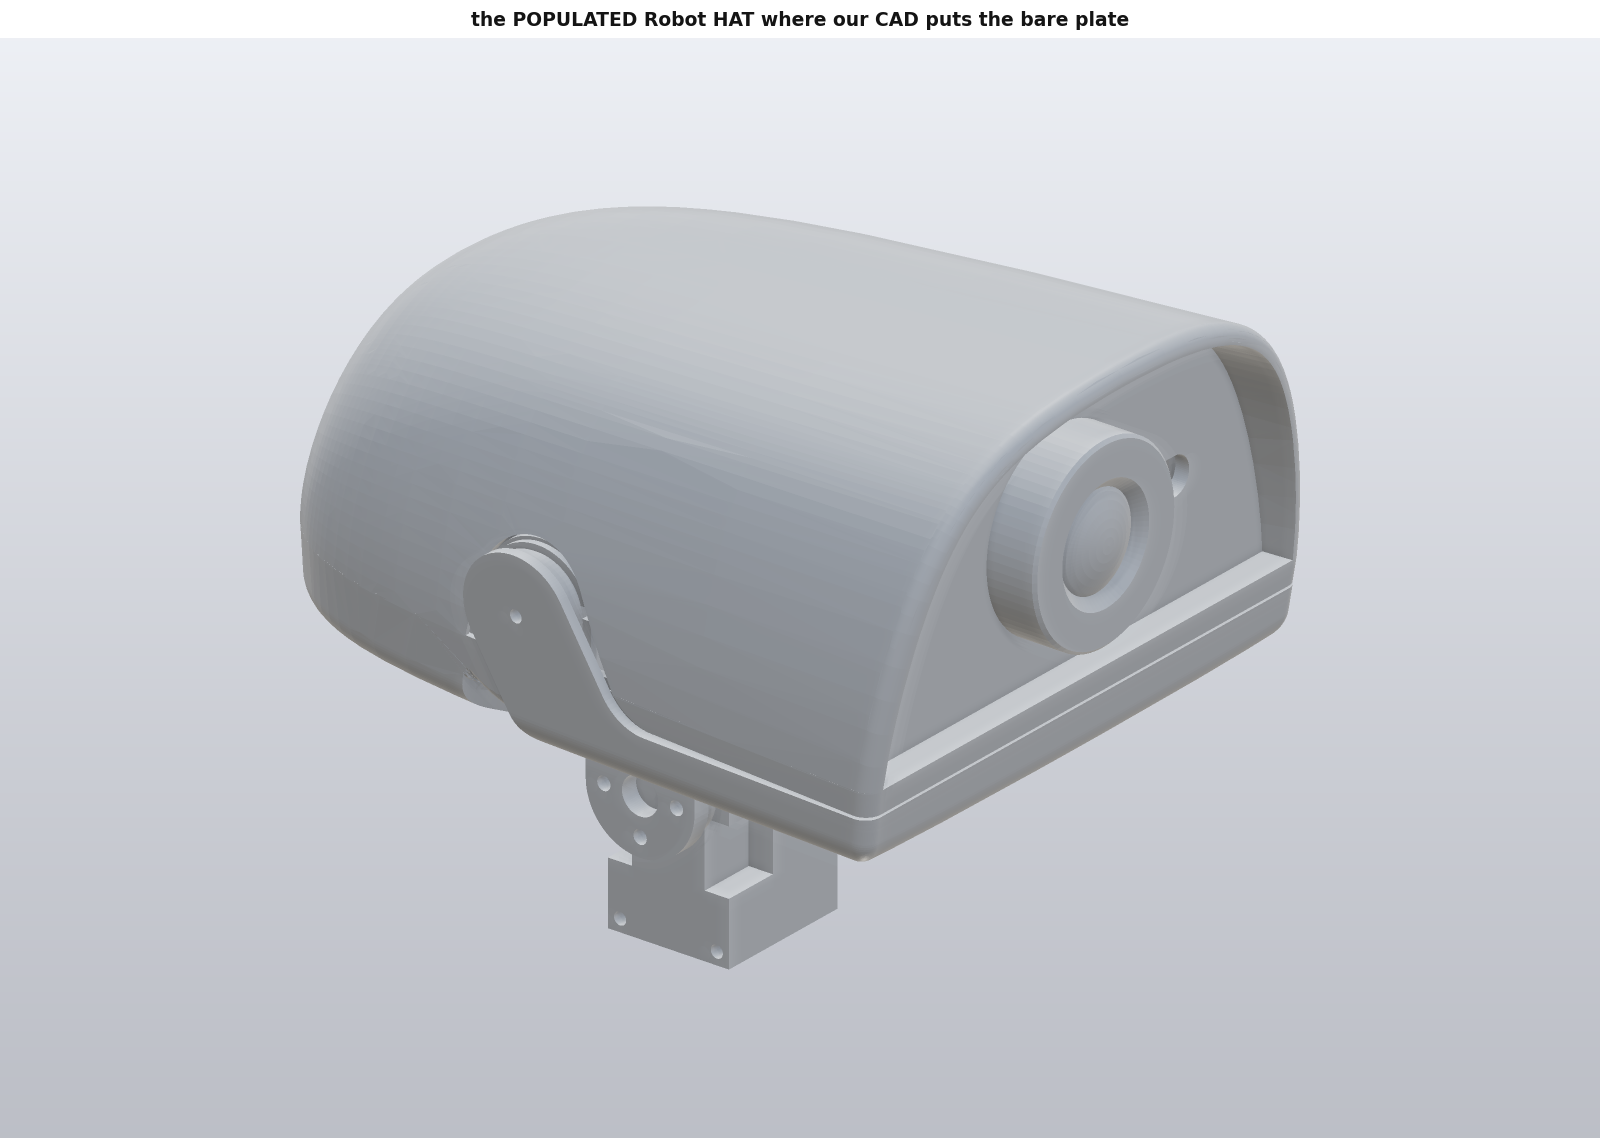
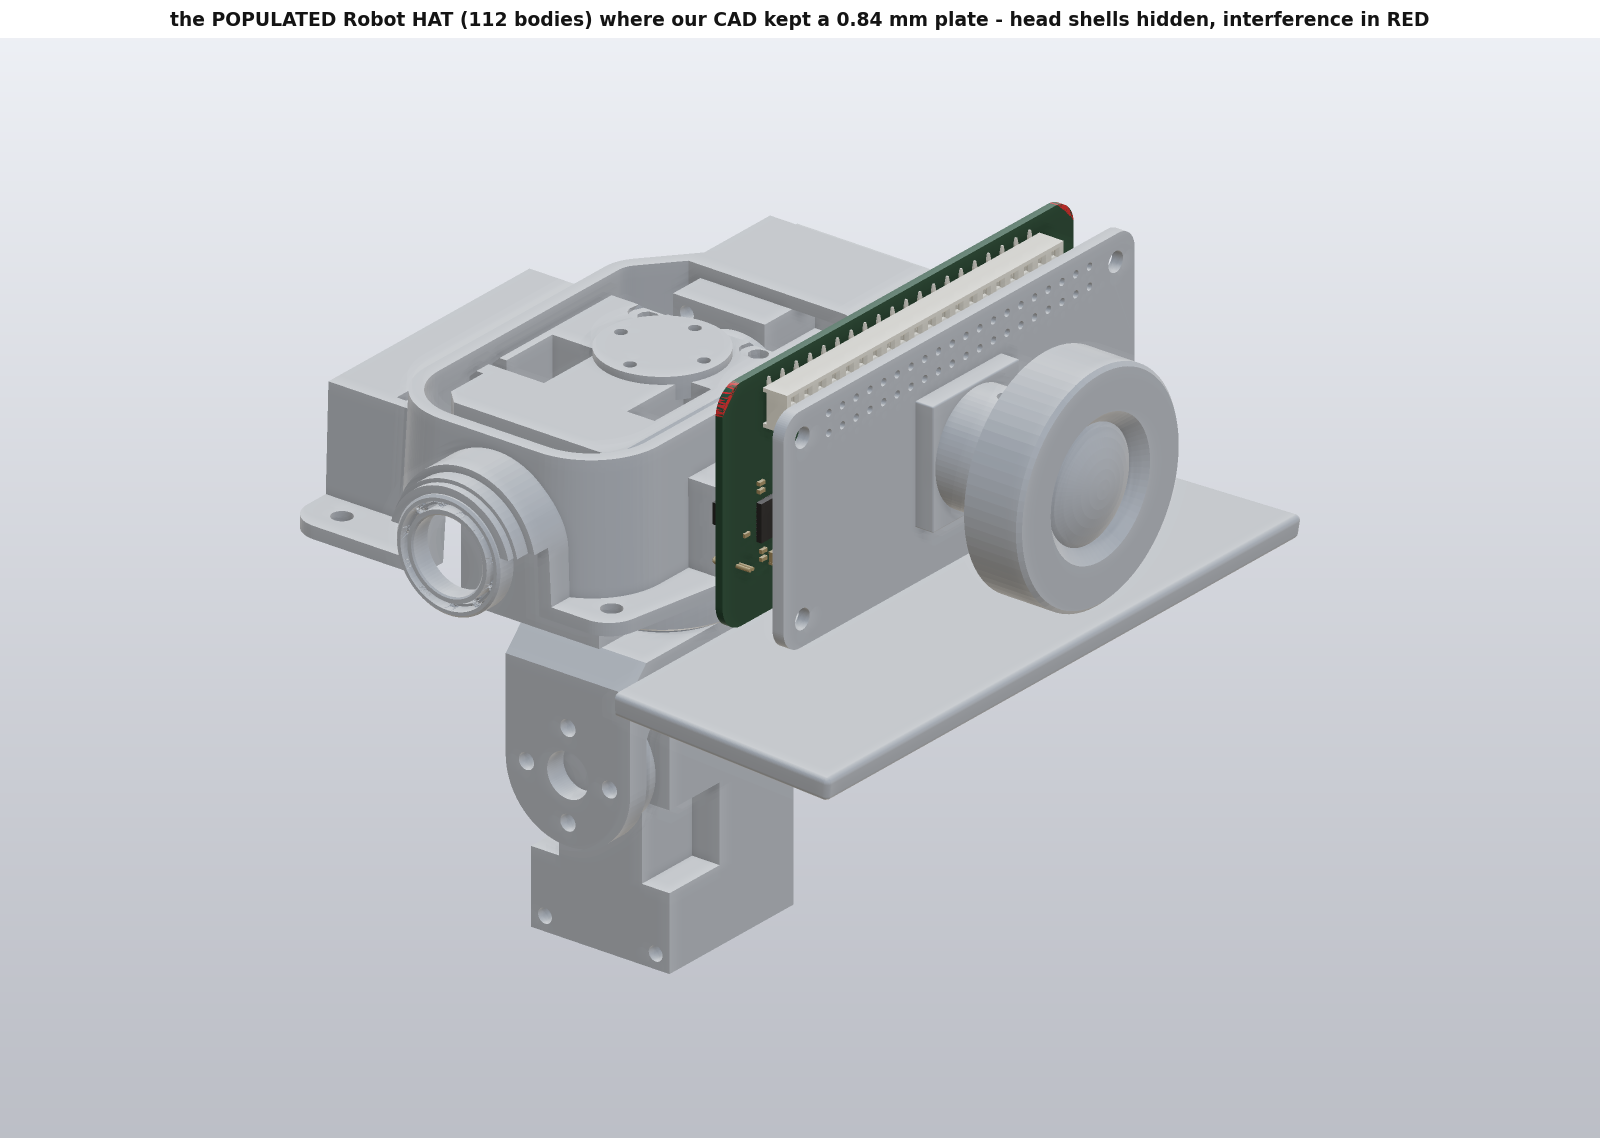
internals build2 checkpoint 7 — the render is replaced and it now SHOWS the finding instead of hiding it. The previous hat-in-head-iso.png was a picture of a closed head shell with the subject invisible inside it; I read it back, said so in the commit that shipped it, and this is the fix. Two change

Changed region(s): [[0.1875, 0.1845, 0.8125, 0.8612], [0.0938, 0.0, 0.9062, 0.0308]]

diff --git a/tools/internals_fit.py b/tools/internals_fit.py
@@ -40,6 +40,7 @@ os.makedirs(OUT, exist_ok=True)
 LOG = open(os.path.join(OUT, "hat-fit.log"), "w")
 MESH_TOL = 0.10          # mm, Part.makeShapeFromMesh sewing tolerance
 NEAR_MM = 5.0            # only bodies whose bbox comes within this are examined
+HIDE = ("top_head_shell", "bottom_head_shell", "face_part", "jaw", "jaw_soft")
 
 
 def P(*a):
@@ -232,6 +233,12 @@ def main():
         for r in rows:
             if r is hat_row or not r.get("mesh_file") or not os.path.exists(r["mesh_file"]):
                 continue
+            # The head SHELLS are what the board sits inside, so drawing them draws an
+            # opaque box with the subject hidden in it -- measured: the first version of
+            # this render was a picture of a closed head and nothing else. They are named
+            # here and left out, and the caption says they are left out.
+            if r["mesh"] in HIDE:
+                continue
             m = placed_mesh(r)
             if bbgap(keepbb, m.BoundBox) > 30.0:
                 continue
@@ -241,10 +248,29 @@ def main():
                 items.append((shp, (0.72, 0.74, 0.76)))
             except Exception:
                 pass
-        for view in ("iso",):
+        # and the interference itself, in red, so the finding is IN the picture
+        for r in rows:
+            if r.get("mesh") not in ("top_head_shell", "motor_support") or not r.get("mesh_file"):
+                continue
+            solid, _err = sewn(r)
+            if solid is None:
+                continue
+            for label, sh in keep:
+                if bbgap(sh.BoundBox, solid.BoundBox) > 0:
+                    continue
+                try:
+                    cm = sh.common(solid)
+                except Exception:
+                    continue
+                if cm.Volume > 1e-6:
+                    items.append((cm, (0.86, 0.13, 0.13)))
+                    P("render: interference solid", r["mesh"], "x", label,
+                      round(cm.Volume, 4), "mm3 drawn in red")
+        for view in ("iso", "front"):
             png = os.path.join(OUT, "hat-in-head-%s.png" % view)
             render(items, png, view=view, mode="pbr", W=1600, H=1100,
-                   title="the POPULATED Robot HAT where our CAD puts the bare plate")
+                   title="the POPULATED Robot HAT (112 bodies) where our CAD kept a 0.84 mm "
+                         "plate - head shells hidden, interference in RED")
             P("rendered", png, os.path.getsize(png), "bytes")
     except Exception:
         import traceback
